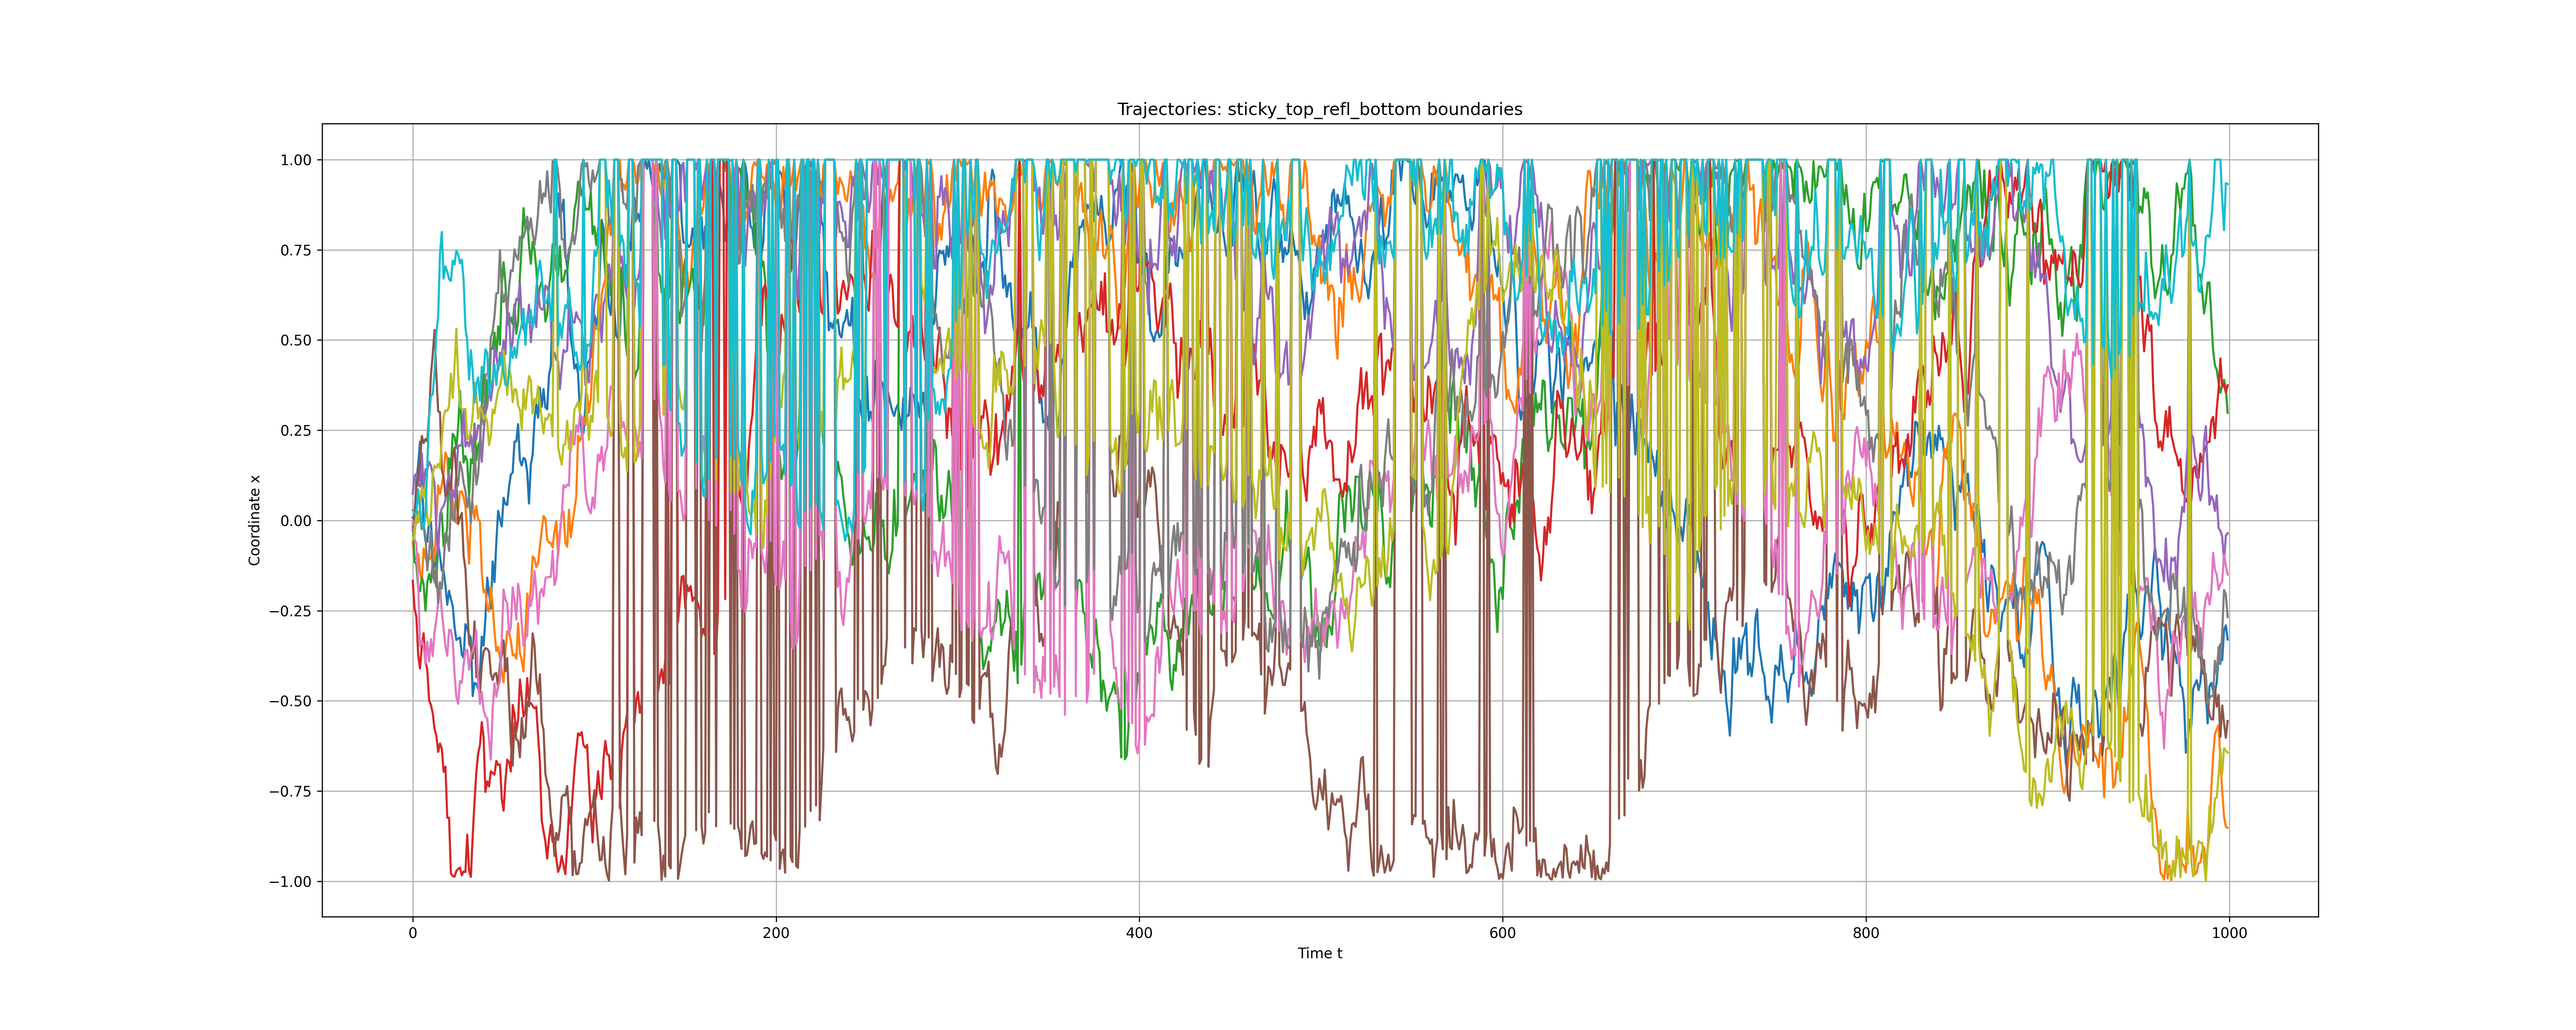
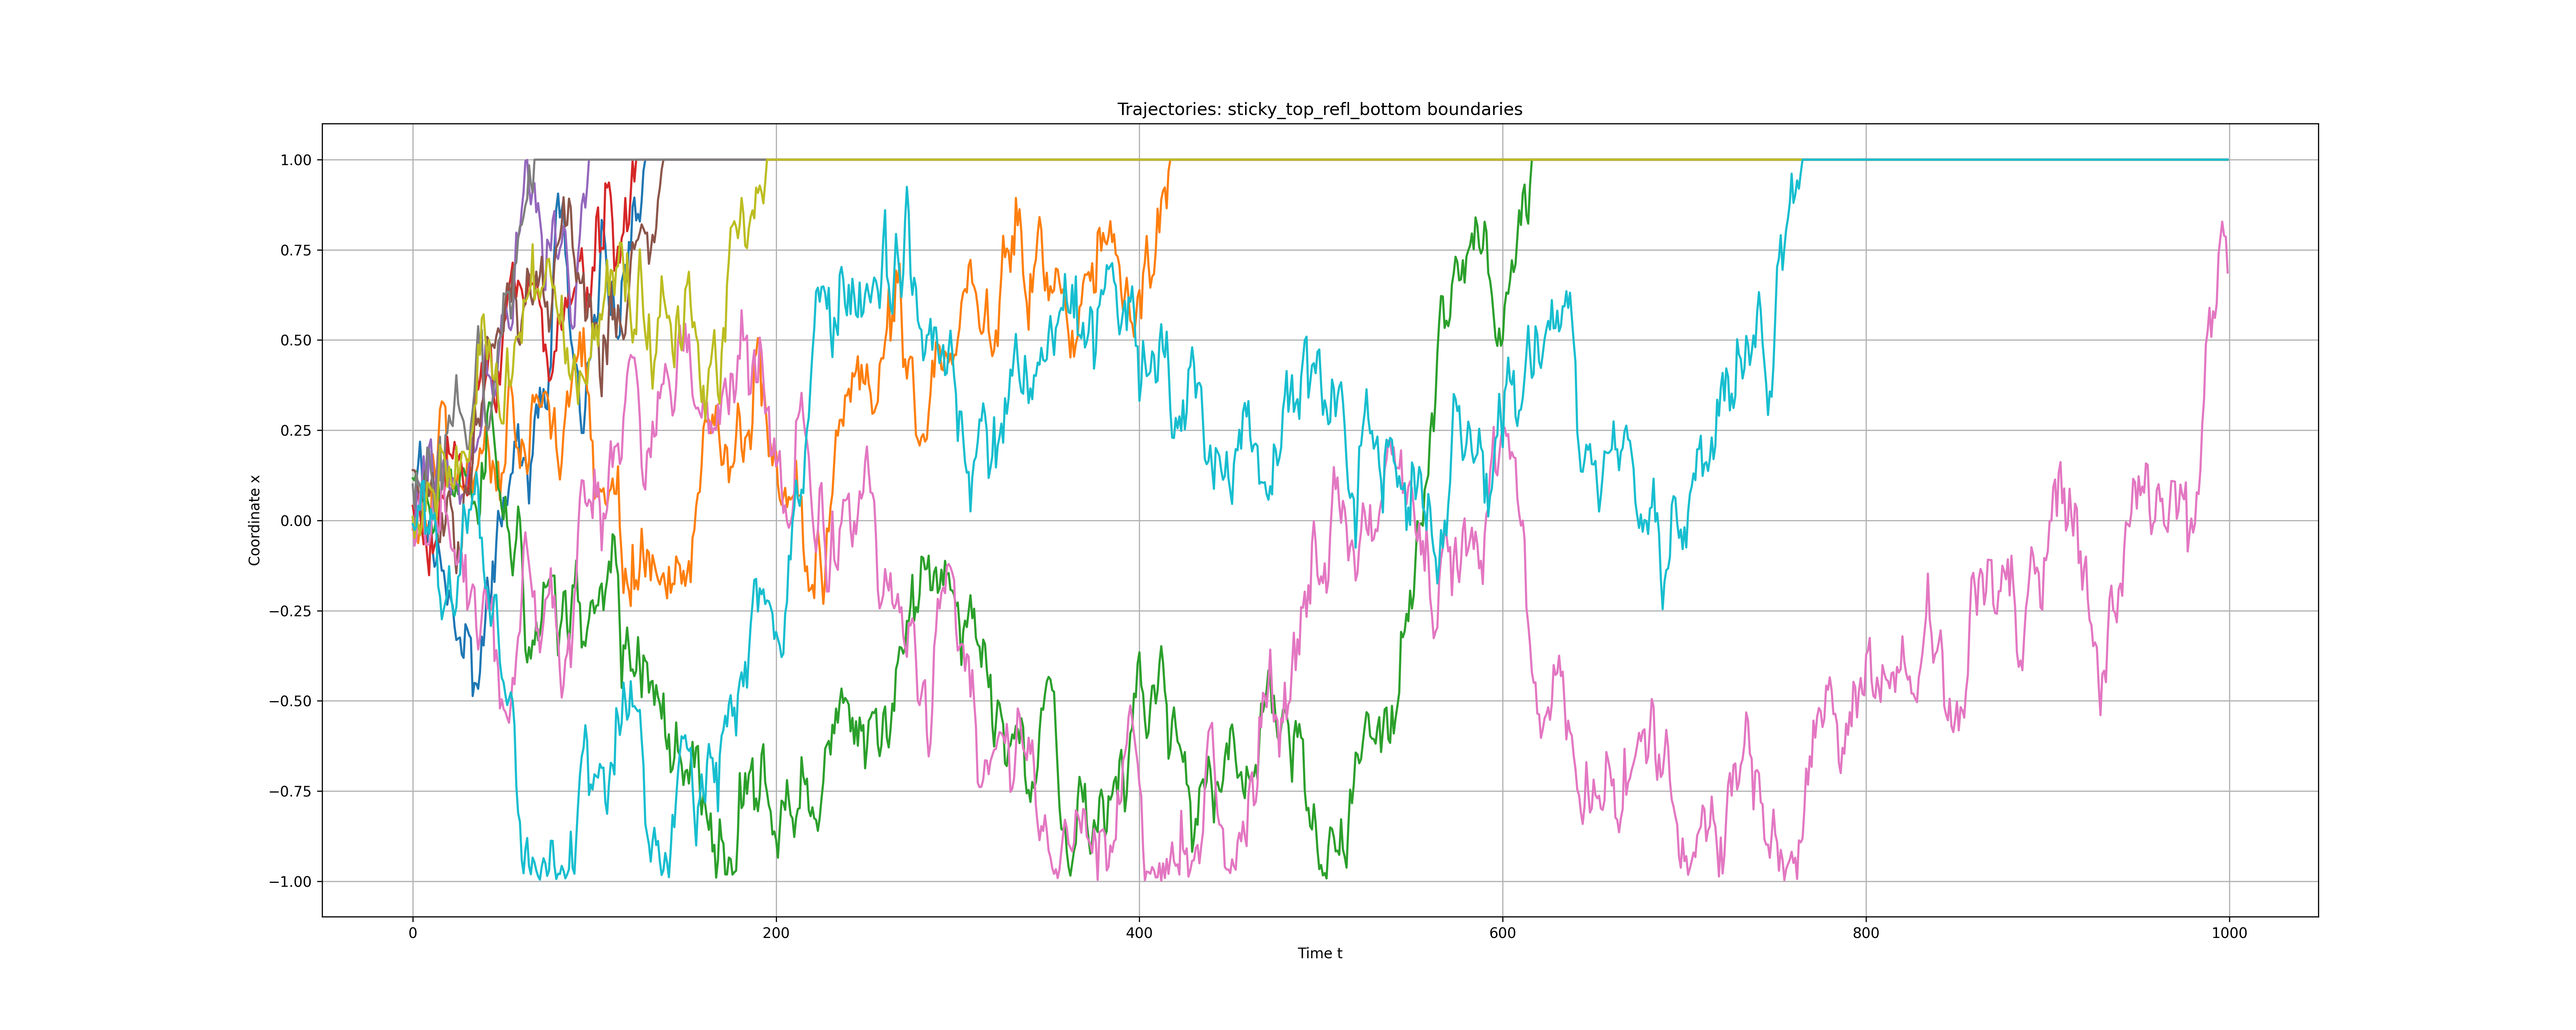
bugix: reflective bottom boundary in trajectories

Changed region(s): [[0.156, 0.155, 0.8736, 0.868]]

diff --git a/single_diffusion.c b/single_diffusion.c
@@ -62,7 +62,7 @@ void diffuse_save_trajectories(double start, double lower_bound, double upper_bo
 
         for (int j = 0; j < n_t; j++) {
             // stick to the top if reached the upper bound
-            if (trajectory[j] >= upper_bound) {
+            if (coordinate >= upper_bound) {
                 trajectory[j] = upper_bound;
                 continue;
             }

diff --git a/todos.md b/todos.md
@@ -13,10 +13,10 @@
 - [x] initial rough check if the results make sense
 - [x] rawdog ffmpeg??
 
-### IO
+### IO (not necessary just yet)
 - [ ] cache intermediate results (histograms) and the write to file in chunks
 - [ ] do not close and reopen the file every time but keep an open pointer until throughout the loop
 
-## cosmetics
+## cosmetics (not necessary yet)
 - [ ] bigger font on the plots
 - [ ] current timestep in the animation
